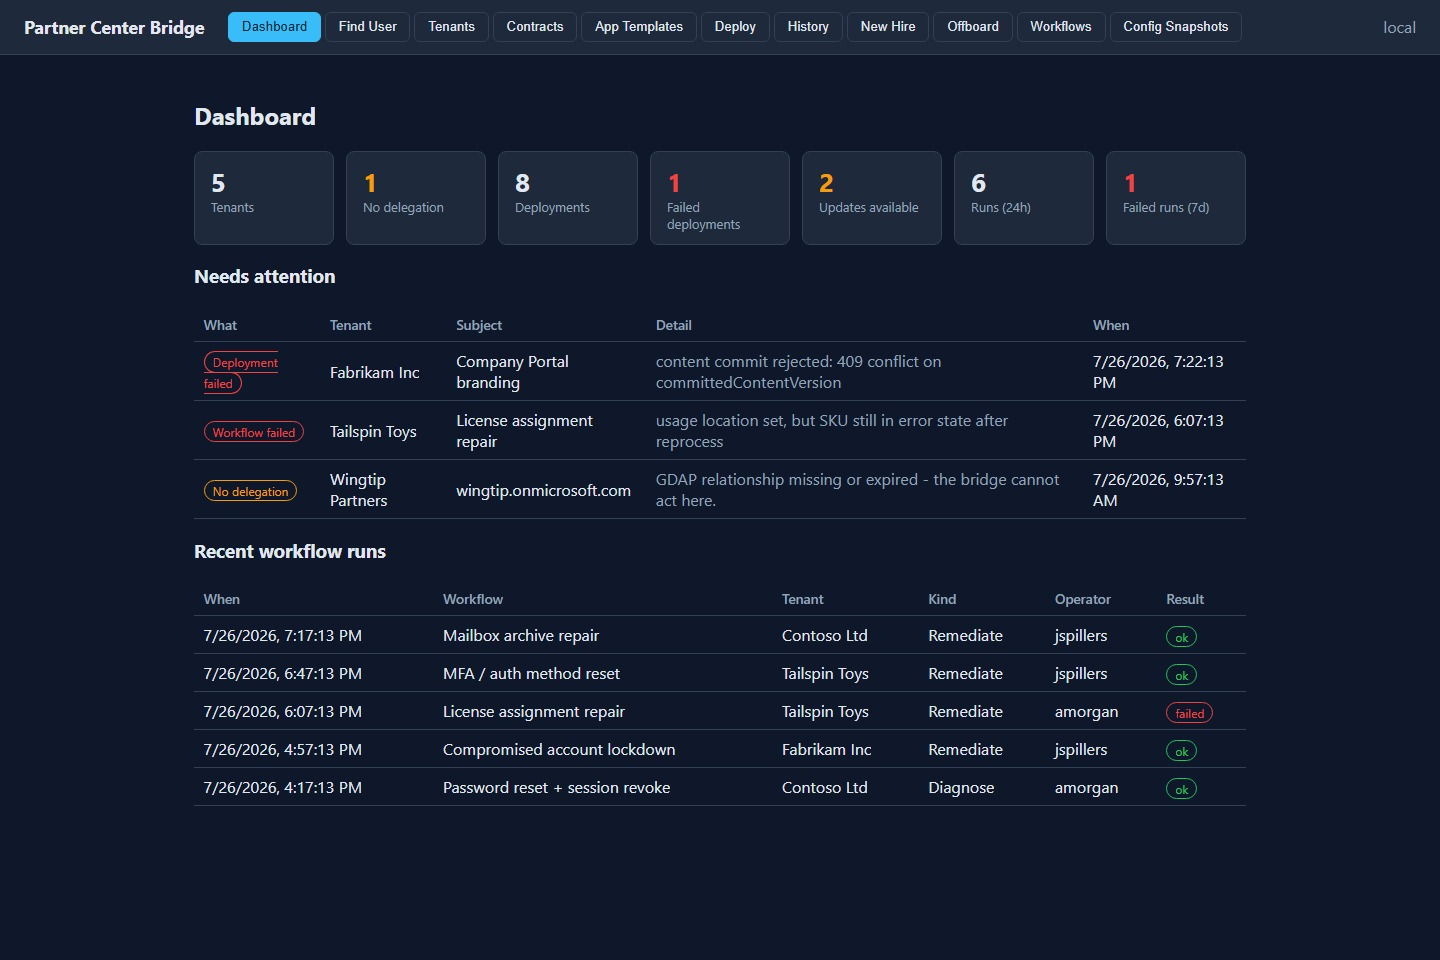
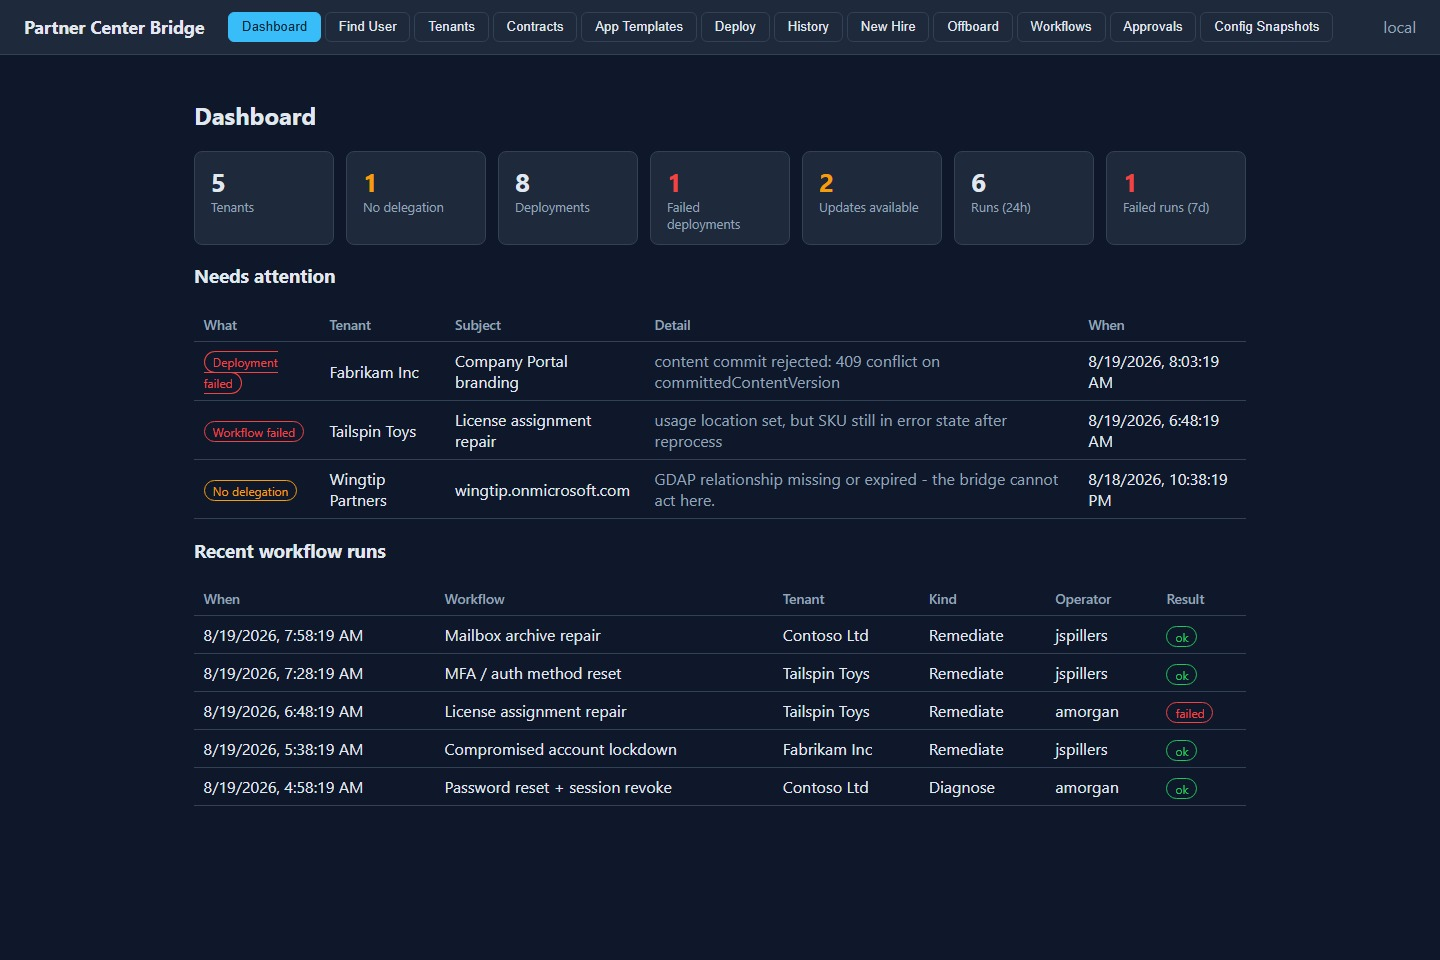
Docs pass for v0.5.0: MCP server, approvals, and app templates
New docs/mcp-server.html covers the MCP transport, PAT auth (scoped to
Local mode, confined to /mcp only), the full tool catalog, and the
Queue/ClientTrust approval modes -- linked from every page's nav, the
homepage integrations grid, and a new Approvals screenshot in the Screens
gallery. Authentication.html gets a PAT section; architecture.html notes
the MCP surface and adds Approvals to the SPA tab list. Version badge
bumped to v0.5.0.

Regenerating screenshots surfaced a real gap in the capture script: the
mocked API router had no handler for /api/mcp-tokens, which Security.tsx
now calls (added earlier this branch for MCP token management) -- it was
crashing that screen's render entirely. Fixed by adding mock MCP token
data alongside the existing passkey mock, and added a pending-actions
mock + capture step for the new Approvals tab.

diff --git a/docs/mcp-server.html b/docs/mcp-server.html
@@ -1,0 +1,180 @@
+<!DOCTYPE html>
+<html lang="en">
+<head>
+<meta charset="utf-8">
+<meta name="viewport" content="width=device-width, initial-scale=1">
+<title>MCP Server - Partner Center Bridge</title>
+<link rel="stylesheet" href="styles.css">
+<!-- OpenReplay Tracking Code (replay.spillerstech.us) -->
+<script>
+  var initOpts = {
+    projectKey: "vQsdaVKqB3x2jUBKW4xd",
+    ingestPoint: "https://replay.spillerstech.us/ingest",
+    defaultInputMode: 0,
+    obscureTextNumbers: false,
+    obscureTextEmails: false,
+  };
+  var startOpts = { userID: "" };
+  (function(A,s,a,y,e,r){
+    r=window.OpenReplay=[e,r,y,[s-1, e]];
+    s=document.createElement('script');s.src=A;s.async=!a;
+    document.getElementsByTagName('head')[0].appendChild(s);
+    r.start=function(v){r.push([0])};
+    r.stop=function(v){r.push([1])};
+    r.setUserID=function(id){r.push([2,id])};
+    r.setUserAnonymousID=function(id){r.push([3,id])};
+    r.setMetadata=function(k,v){r.push([4,k,v])};
+    r.event=function(k,p,i){r.push([5,k,p,i])};
+    r.issue=function(k,p){r.push([6,k,p])};
+    r.isActive=function(){return false};
+    r.getSessionToken=function(){};
+  })("//static.openreplay.com/18.0.17/openreplay-assist.js",1,0,initOpts,startOpts);
+  OpenReplay.start();
+  OpenReplay.setMetadata("project", "PartnerCenterBridge");
+</script>
+</head>
+<body>
+
+<nav class="topnav">
+  <a class="brand" href="index.html">Partner Center <span>Bridge</span></a>
+  <a class="nav-link" href="getting-started.html">Getting started</a>
+  <a class="nav-link" href="architecture.html">Architecture</a>
+  <a class="nav-link" href="authentication.html">Authentication</a>
+  <a class="nav-link" href="workflows.html">Workflows</a>
+  <a class="nav-link active" href="mcp-server.html">MCP Server</a>
+  <a class="nav-link" href="config-snapshots.html">Config Snapshots</a>
+  <a class="nav-link" href="sam-bootstrap.html">SAM bootstrap</a>
+  <a class="nav-link" href="deployment.html">Deployment</a>
+  <a class="nav-link gh" href="https://github.com/Spillers-Technology/PartnerCenterBridge">GitHub</a>
+</nav>
+
+<main>
+<h1>MCP Server</h1>
+<p class="tagline" style="text-align:left;max-width:none;margin:0 0 1.5rem;">
+  The bridge exposes a <a href="https://modelcontextprotocol.io/" target="_blank" rel="noopener">Model
+  Context Protocol</a> server so an LLM can drive it the same way a human operator does through the
+  SPA -- same tools, same tenant-access model, same audit trail. Every tool call that changes
+  something in a customer tenant is staged for a human to approve by default; nothing an MCP client
+  says gets to touch Microsoft's cloud unless a person clicked Approve, unless you explicitly opt a
+  tenant out of that.
+</p>
+
+<img src="assets/screenshots/pcbridge-approvals.jpg" alt="Approvals tab listing a pending MFA reset action awaiting approval, with Approve and Reject buttons and a preview of what will change." style="width:100%;border:1px solid var(--line);border-radius:10px;margin:0 0 1.5rem;">
+
+<h2>Transport and connecting</h2>
+<p>
+  Streamable HTTP at <code>POST /mcp</code>, via the official <code>ModelContextProtocol.AspNetCore</code>
+  SDK, stateless (no server-side session pinning between calls). It sits behind the same
+  <code>[Authorize]</code> bearer-token gate as every REST controller -- there is no separate MCP
+  auth stack to configure. Point an MCP client (Claude Code, Claude Desktop, or anything else that
+  speaks Streamable HTTP) at <code>https://your-instance/mcp</code> with a bearer token in the
+  <code>Authorization</code> header.
+</p>
+<div class="callout warn">
+  There is no OAuth 2.1 discovery flow (<code>.well-known/oauth-authorization-server</code>) yet --
+  a client that expects to discover and negotiate credentials itself won't work out of the box.
+  Today you mint a credential first (see Personal access tokens below) and configure the client
+  with it directly.
+</div>
+
+<h2>Personal access tokens</h2>
+<p>
+  MCP clients are machine callers, not interactive browser sessions, so they authenticate with a
+  <strong>personal access token (PAT)</strong> instead of a normal login -- a long-lived, individually
+  revocable JWT you mint from the Security tab (<code>Auth:Mode=Local</code> only; PATs are tied to
+  local accounts, the same way <a href="authentication.html">tenant sharing</a> is). A PAT carries
+  the same identity claims your login token would, plus a <code>jti</code> that <code>McpTokenValidator</code>
+  checks against <code>McpToken.RevokedAt</code> on every request -- revoking a token from the
+  Security tab takes effect on its next call, no waiting for it to expire.
+</p>
+<div class="callout">
+  <strong>A PAT can only reach <code>/mcp</code>.</strong> Dedicated middleware rejects any
+  <code>jti</code>-bearing request outside that path with 403 -- a stolen or leaked PAT cannot be
+  used to call the REST API directly, register a new passkey, or reach anything an interactive
+  login token could. This check is scoped to <code>Auth:Mode=Local</code> specifically, since a
+  standard OIDC access token (Entra ID and most providers) commonly carries its own unrelated
+  <code>jti</code> claim that has nothing to do with this app's PATs.
+</div>
+
+<h2>The tool catalog</h2>
+<p>Seven tools today, covering read access and the one mutating action (workflow remediation):</p>
+<table>
+  <tr><th>Tool</th><th>Does</th></tr>
+  <tr><td><code>who_am_i</code></td><td>Identity the server resolved for this call -- useful for a client to confirm it's authenticated as the account it expects.</td></tr>
+  <tr><td><code>list_tenants</code></td><td>Customer tenants the caller has access to, with GDAP delegation status. Scoped by the same per-tenant roles as the SPA.</td></tr>
+  <tr><td><code>get_dashboard</code></td><td>The same triage view as the SPA's landing page: stats, needs-attention items, recent runs.</td></tr>
+  <tr><td><code>list_workflows</code></td><td>The known-fix workflow catalog (MFA reset, password reset, license repair, mailbox archive, etc.) with each one's required inputs.</td></tr>
+  <tr><td><code>diagnose_workflow</code></td><td>Runs a workflow's read-only diagnosis. Never mutates anything -- safe to call regardless of the tenant's approval mode.</td></tr>
+  <tr><td><code>remediate_workflow</code></td><td>Runs a workflow's fix. This is the one tool that can change something in a tenant -- see Approval modes below for what actually happens when it's called.</td></tr>
+  <tr><td><code>check_pending_action</code></td><td>Polls a staged action's current status and any execution error, so a client that just staged something in Queue mode can find out what happened to it.</td></tr>
+</table>
+<p>
+  Every tool is annotated with MCP's <code>readOnlyHint</code>/<code>destructiveHint</code>
+  metadata, so a well-behaved client can tell <code>remediate_workflow</code> apart from the other
+  six without guessing from its name.
+</p>
+
+<h2>Approval modes: Queue and ClientTrust</h2>
+<p>
+  Each tenant has an <code>McpApprovalMode</code>, defaulting to <strong>Queue</strong>. This is
+  the whole point of the human-in-the-loop design:
+</p>
+<table>
+  <tr><th>Mode</th><th>What <code>remediate_workflow</code> does</th></tr>
+  <tr>
+    <td><span class="badge ok">Queue</span> (default)</td>
+    <td>Re-runs the workflow's diagnosis as a preview, then stages the fix as a <code>PendingAction</code>
+        instead of running anything -- returns the pending action's id. Nothing in the tenant
+        changes until a human approves it from the Approvals tab. The preview includes the actual
+        input values (which user, which mailbox, etc.), not just the workflow's name, so an
+        approver can tell what they're approving.</td>
+  </tr>
+  <tr>
+    <td><span class="badge warn">ClientTrust</span></td>
+    <td>Runs immediately, same as if a human had clicked "Fix" in the SPA. For a tenant you've
+        decided an MCP client can be trusted to act on unattended -- a deliberate per-tenant opt-out,
+        not a default.</td>
+  </tr>
+</table>
+<div class="callout">
+  Switching a tenant to ClientTrust requires <code>IsSystemAdmin</code>
+  (<code>PATCH /api/admin/tenants/{id}/mcp-mode</code>) -- there's no SPA toggle yet, so it's an
+  API call today. This is the one place <code>IsSystemAdmin</code> gates something MCP-specific,
+  and it's deliberately a safety-policy flag, not a tenant-operational bypass -- see
+  <a href="authentication.html">Authentication</a>'s note on what <code>IsSystemAdmin</code> is
+  and isn't allowed to do.
+</div>
+
+<h2>The approval workflow</h2>
+<p>
+  A staged action shows up in the Approvals tab (and the Dashboard's "needs attention" tile) for
+  anyone with Operator+ access to that tenant. Approving or rejecting is an atomically claimed
+  state transition -- two people clicking Approve on the same action at the same moment can't both
+  succeed, closing a real double-execution race the state machine was built to prevent. If an
+  approved action's execution fails (a Graph error, an expired GDAP relationship, whatever), it
+  stays <strong>Approved</strong> with the error attached and shows up as retryable, rather than
+  silently vanishing or double-counting as both failed and re-queued.
+</p>
+<p>
+  Every claim, audit, and execution-outcome transition writes an explicit <code>AuditEvent</code>
+  in the same transaction as the state change itself, so a crash mid-transition can't leave a
+  status change with no audit record behind it.
+</p>
+
+<h2>Access control</h2>
+<p>
+  MCP tools use the exact same <code>ITenantAccessService</code> the REST API does -- there is no
+  separate MCP permission model. <code>list_tenants</code>, <code>get_dashboard</code>, and the
+  workflow tools all resolve the caller's real tenant grants; <code>check_pending_action</code>
+  requires Viewer+ on the staged action's tenant before it will say anything about it.
+</p>
+
+</main>
+
+<footer>
+  MIT licensed.
+  <a href="https://github.com/Spillers-Technology/PartnerCenterBridge">github.com/Spillers-Technology/PartnerCenterBridge</a>
+</footer>
+
+</body>
+</html>

diff --git a/docs/index.html b/docs/index.html
@@ -4,7 +4,7 @@
 <meta charset="utf-8">
 <meta name="viewport" content="width=device-width, initial-scale=1">
 <title>Partner Center Bridge - repeatable cross-tenant Microsoft 365 ops for MSPs</title>
-<meta name="description" content="An open-source, self-hosted bridge over Microsoft Graph and the Partner Center API: templated Intune Win32 deploys across every tenant, contract-driven hire/offboard, and transparent Diagnose - Fix - Verify workflows for the tickets your queue sees every week.">
+<meta name="description" content="An open-source, self-hosted bridge over Microsoft Graph and the Partner Center API: templated Intune Win32 deploys across every tenant, contract-driven hire/offboard, transparent Diagnose - Fix - Verify workflows, and an MCP server so an LLM can drive it with human-in-the-loop approval.">
 <meta name="theme-color" content="#0f172a">
 
 <meta property="og:type" content="website">
@@ -240,6 +240,7 @@
       <a href="architecture.html">Architecture</a>
       <a href="authentication.html">Authentication</a>
       <a href="workflows.html">Workflows</a>
+      <a href="mcp-server.html">MCP Server</a>
       <a href="config-snapshots.html">Config Snapshots</a>
       <a href="getting-started.html">Getting started</a>
       <a class="nav-cta" href="https://github.com/Spillers-Technology/PartnerCenterBridge" target="_blank" rel="noopener">GitHub</a>
@@ -251,7 +252,7 @@
   <section class="hero" aria-labelledby="hero-title">
     <div class="wrap">
       <div class="hero-content">
-        <div class="release"><i></i> Open source &middot; self-hosted &middot; v0.4.0</div>
+        <div class="release"><i></i> Open source &middot; self-hosted &middot; v0.5.0</div>
         <h1 id="hero-title">Cross-tenant Microsoft&nbsp;365 ops,<br><span>done the same way every time.</span></h1>
         <p class="lead">
           A self-hosted bridge over Microsoft Graph and the Partner Center API for MSPs.
@@ -384,6 +385,12 @@
         </figure>
         <figure class="shot">
           <button class="lightbox-trigger" type="button" data-lightbox>
+            <img src="assets/screenshots/pcbridge-approvals.jpg" alt="Approvals tab listing a pending MFA reset action awaiting approval and a failed license repair action offering Retry.">
+          </button>
+          <figcaption><strong>MCP with a human in the loop</strong><span>An LLM can drive the bridge through the same MCP tools a technician's client would call - but a mutating action lands here for a human to approve first, by default. See <a href="mcp-server.html">MCP Server</a>.</span></figcaption>
+        </figure>
+        <figure class="shot">
+          <button class="lightbox-trigger" type="button" data-lightbox>
             <img src="assets/screenshots/pcbridge-config-snapshots.jpg" alt="Config Snapshots screen showing a diff between two runs with Modified, Added, and Removed Conditional Access and Named Location entries.">
           </button>
           <figcaption><strong>Config snapshots &amp; diff</strong><span>Point-in-time backups of Conditional Access, Named Locations, and Device Compliance Policies - diffed section-by-section, exportable as a patch. See <a href="config-snapshots.html">Config Snapshots</a>.</span></figcaption>
@@ -451,6 +458,7 @@
         <article class="integration"><span class="tag stable">Stable</span><strong>Intune Win32 apps</strong><p>The full <code>.intunewin</code> upload state machine: content version, chunked block-blob upload, commit with parsed encryption info, then assign.</p></article>
         <article class="integration"><span class="tag beta">Beta</span><strong>Exchange Online V3</strong><p>Mailbox configuration Graph can't do, through the EXO PowerShell module (app-only certificate) run out-of-process via <code>PwshRunner</code>.</p></article>
         <article class="integration"><span class="tag stable">Stable</span><strong>Authentik / OIDC</strong><p>Operator sign-in as a JWT bearer plane. Any standard OIDC provider works; set <code>Auth</code> and the matching <code>VITE_OIDC_*</code> vars.</p></article>
+        <article class="integration"><span class="tag stable">Stable</span><strong>MCP (Model Context Protocol)</strong><p>Streamable HTTP server at <code>/mcp</code> so an LLM can drive the bridge through the same tools, tenant access, and human-in-the-loop approval a technician uses. See <a href="mcp-server.html">MCP Server</a>.</p></article>
         <article class="integration"><span class="tag stable">Stable</span><strong>Teams / webhook alerts</strong><p>Failed runs push an Adaptive Card to a Teams incoming webhook, or plain JSON to any receiver - configured in the <code>Notifications</code> section.</p></article>
         <article class="integration"><span class="tag core">Core</span><strong>PostgreSQL</strong><p>The local source of truth via EF Core: tenants, contracts, templates, deployments, and full workflow run history.</p></article>
         <article class="integration"><span class="tag planned">Planned</span><strong>Two-way LDAP</strong><p>Phase 4. Scaffolded for, not implemented. Directory sync back to on-prem is on the list but not in the build.</p></article>
@@ -541,6 +549,7 @@ dotnet test</pre>
       <a href="architecture.html">Architecture</a>
       <a href="authentication.html">Authentication</a>
       <a href="workflows.html">Workflows</a>
+      <a href="mcp-server.html">MCP Server</a>
       <a href="config-snapshots.html">Config Snapshots</a>
       <a href="https://github.com/Spillers-Technology/PartnerCenterBridge/blob/main/LICENSE" target="_blank" rel="noopener">License</a>
     </nav>

diff --git a/docs/authentication.html b/docs/authentication.html
@@ -41,6 +41,7 @@
   <a class="nav-link" href="architecture.html">Architecture</a>
   <a class="nav-link active" href="authentication.html">Authentication</a>
   <a class="nav-link" href="workflows.html">Workflows</a>
+  <a class="nav-link" href="mcp-server.html">MCP Server</a>
   <a class="nav-link" href="config-snapshots.html">Config Snapshots</a>
   <a class="nav-link" href="sam-bootstrap.html">SAM bootstrap</a>
   <a class="nav-link" href="deployment.html">Deployment</a>
@@ -157,7 +158,23 @@ system, two ways:</p>
 -- no proprietary protocol, works with platform authenticators (Windows Hello, Touch ID) and
 roaming ones (security keys) alike.</p>
 
-<img src="assets/screenshots/pcbridge-security.jpg" alt="Security screen listing a registered passkey and showing TOTP enabled, with a disable-2FA password confirmation form." style="width:100%;border:1px solid var(--line);border-radius:10px;margin:0 0 1.5rem;">
+<img src="assets/screenshots/pcbridge-security.jpg" alt="Security screen listing a registered passkey, TOTP enabled, and an MCP access token named Claude Desktop." style="width:100%;border:1px solid var(--line);border-radius:10px;margin:0 0 1.5rem;">
+
+<h2>MCP personal access tokens</h2>
+<p>
+  A fourth credential type, layered on top of Local mode rather than a fourth <code>Auth:Mode</code>:
+  a <strong>personal access token (PAT)</strong> is a long-lived, individually revocable JWT for
+  machine callers -- specifically, an MCP client that can't do an interactive browser login. Mint
+  one from the Security screen's "MCP access tokens" panel; it carries the same identity and
+  tenant-access as your account, so revoke it immediately if the client using it is decommissioned
+  or compromised.
+</p>
+<div class="callout">
+  A PAT is confined to the MCP transport (<code>/mcp</code>) only -- dedicated middleware rejects
+  it everywhere else with 403, so a leaked PAT cannot be replayed against the REST API. See
+  <a href="mcp-server.html">MCP Server</a> for the full model, including the Queue/ClientTrust
+  approval modes that gate what an MCP client is actually allowed to change.
+</div>
 
 <h2>Audit trail</h2>
 <p>

diff --git a/docs/architecture.html b/docs/architecture.html
@@ -41,6 +41,7 @@
   <a class="nav-link active" href="architecture.html">Architecture</a>
   <a class="nav-link" href="authentication.html">Authentication</a>
   <a class="nav-link" href="workflows.html">Workflows</a>
+  <a class="nav-link" href="mcp-server.html">MCP Server</a>
   <a class="nav-link" href="config-snapshots.html">Config Snapshots</a>
   <a class="nav-link" href="sam-bootstrap.html">SAM bootstrap</a>
   <a class="nav-link" href="deployment.html">Deployment</a>
@@ -101,8 +102,18 @@ completely separate:</p>
           dispatch + run recording.</td></tr>
   <tr><td><code>web/</code></td>
       <td>React SPA: Tenants, Contracts, App Templates, Deploy, History, New Hire, Offboard,
-          Workflows.</td></tr>
+          Workflows, Approvals.</td></tr>
 </table>
+
+<h2>The MCP surface</h2>
+<p>
+  Alongside the REST API, <code>Api</code> exposes a <a href="https://modelcontextprotocol.io/" target="_blank" rel="noopener">Model Context Protocol</a>
+  server at <code>/mcp</code> (Streamable HTTP) so an LLM client can call the same operations a
+  technician would through the SPA -- <code>ITenantAccessService</code>, the workflow catalog, and
+  the audit trail are all shared with the REST controllers, not a parallel implementation. A
+  mutating tool call is staged as a <code>PendingAction</code> for human approval by default,
+  rather than executing directly; see <a href="mcp-server.html">MCP Server</a> for the full model.
+</p>
 
 <h2>The contract model</h2>
 <p>

diff --git a/docs/config-snapshots.html b/docs/config-snapshots.html
@@ -41,6 +41,7 @@
   <a class="nav-link" href="architecture.html">Architecture</a>
   <a class="nav-link" href="authentication.html">Authentication</a>
   <a class="nav-link" href="workflows.html">Workflows</a>
+  <a class="nav-link" href="mcp-server.html">MCP Server</a>
   <a class="nav-link active" href="config-snapshots.html">Config Snapshots</a>
   <a class="nav-link" href="sam-bootstrap.html">SAM bootstrap</a>
   <a class="nav-link" href="deployment.html">Deployment</a>

diff --git a/docs/deployment.html b/docs/deployment.html
@@ -41,6 +41,7 @@
   <a class="nav-link" href="architecture.html">Architecture</a>
   <a class="nav-link" href="authentication.html">Authentication</a>
   <a class="nav-link" href="workflows.html">Workflows</a>
+  <a class="nav-link" href="mcp-server.html">MCP Server</a>
   <a class="nav-link" href="config-snapshots.html">Config Snapshots</a>
   <a class="nav-link" href="sam-bootstrap.html">SAM bootstrap</a>
   <a class="nav-link active" href="deployment.html">Deployment</a>

diff --git a/docs/sam-bootstrap.html b/docs/sam-bootstrap.html
@@ -41,6 +41,7 @@
   <a class="nav-link" href="architecture.html">Architecture</a>
   <a class="nav-link" href="authentication.html">Authentication</a>
   <a class="nav-link" href="workflows.html">Workflows</a>
+  <a class="nav-link" href="mcp-server.html">MCP Server</a>
   <a class="nav-link" href="config-snapshots.html">Config Snapshots</a>
   <a class="nav-link active" href="sam-bootstrap.html">SAM bootstrap</a>
   <a class="nav-link" href="deployment.html">Deployment</a>

diff --git a/docs/workflows.html b/docs/workflows.html
@@ -41,6 +41,7 @@
   <a class="nav-link" href="architecture.html">Architecture</a>
   <a class="nav-link" href="authentication.html">Authentication</a>
   <a class="nav-link active" href="workflows.html">Workflows</a>
+  <a class="nav-link" href="mcp-server.html">MCP Server</a>
   <a class="nav-link" href="config-snapshots.html">Config Snapshots</a>
   <a class="nav-link" href="sam-bootstrap.html">SAM bootstrap</a>
   <a class="nav-link" href="deployment.html">Deployment</a>

diff --git a/docs/getting-started.html b/docs/getting-started.html
@@ -41,6 +41,7 @@
   <a class="nav-link" href="architecture.html">Architecture</a>
   <a class="nav-link" href="authentication.html">Authentication</a>
   <a class="nav-link" href="workflows.html">Workflows</a>
+  <a class="nav-link" href="mcp-server.html">MCP Server</a>
   <a class="nav-link" href="config-snapshots.html">Config Snapshots</a>
   <a class="nav-link" href="sam-bootstrap.html">SAM bootstrap</a>
   <a class="nav-link" href="deployment.html">Deployment</a>
